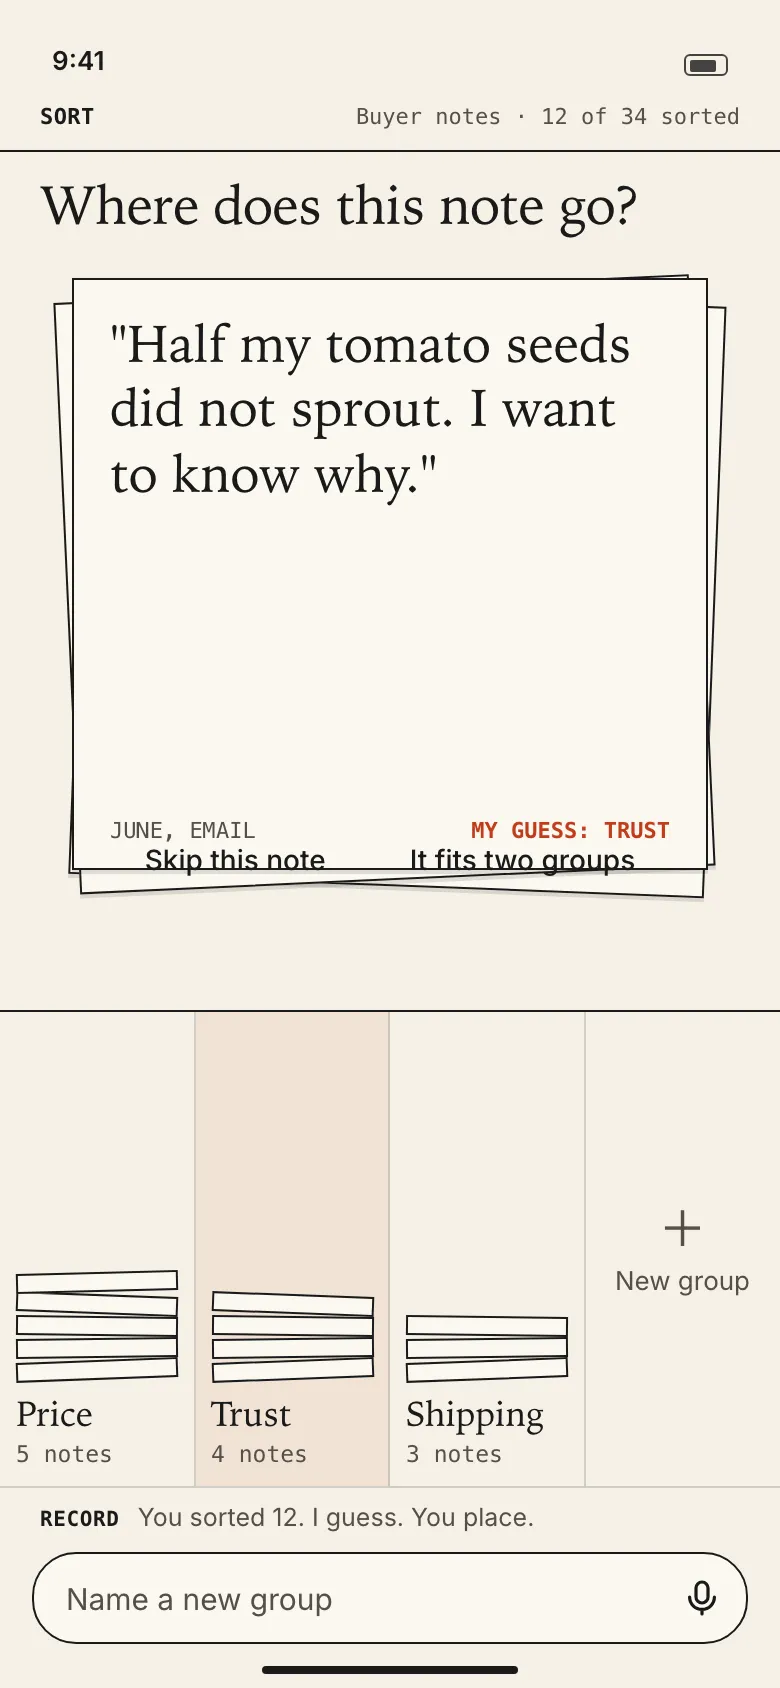
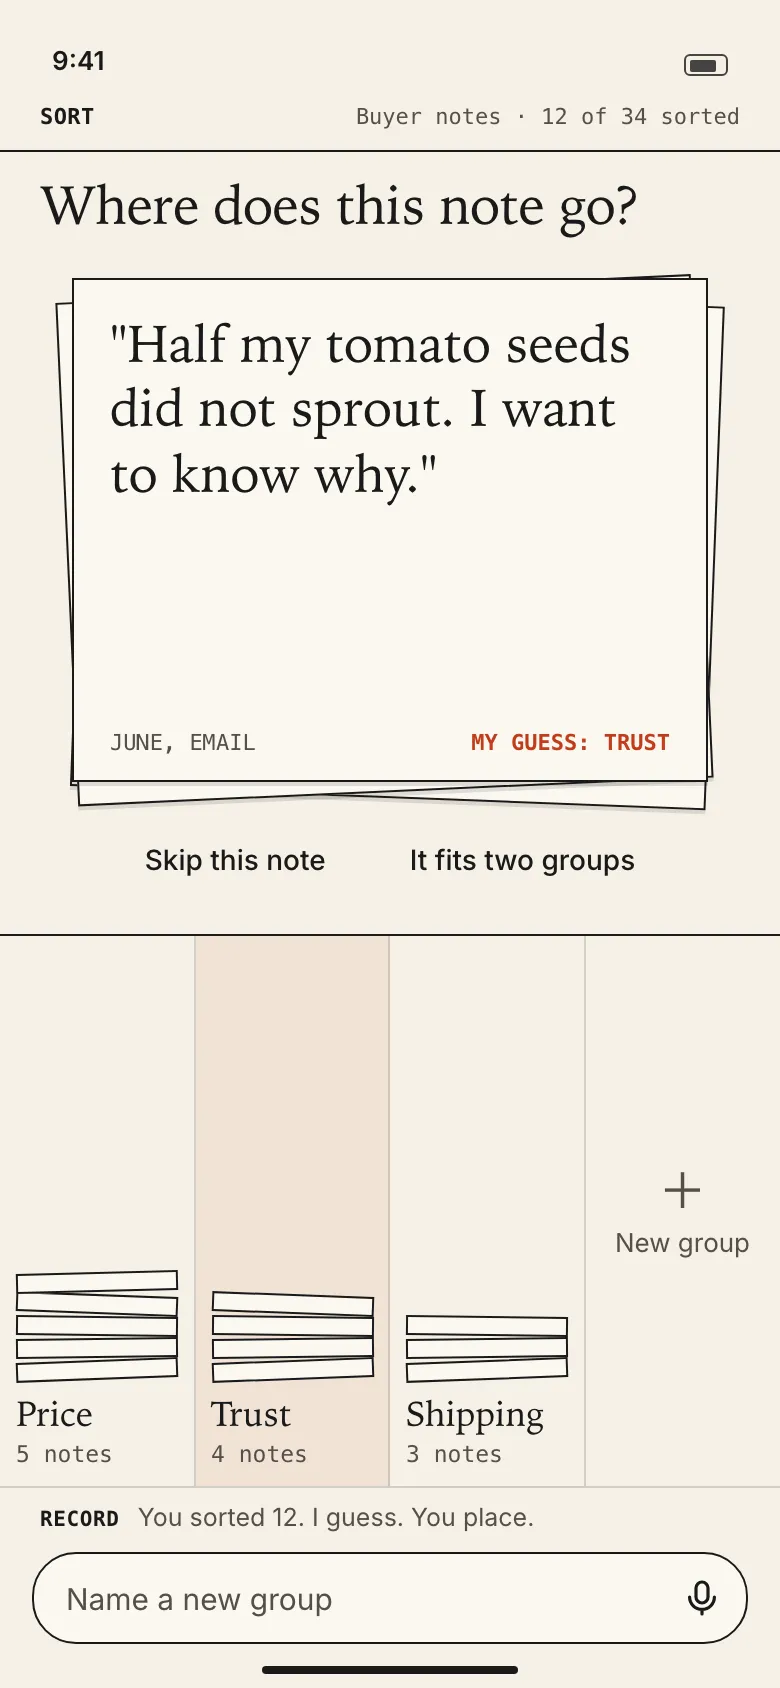
Sort mockup: fill the empty space without covering the buttons

diff --git a/static/mockups/sort.html b/static/mockups/sort.html
@@ -29,14 +29,14 @@ h1{font:400 27px/1.14 var(--serif);letter-spacing:-.01em}
 
 .ask{padding:12px 20px 0}
 .table{flex:1;min-height:0;position:relative;margin:6px 0 0}
-.slip{position:absolute;left:36px;right:36px;top:14px;height:296px;background:var(--page);border:1px solid var(--ink);padding:16px 18px;box-shadow:0 2px 0 rgba(26,26,26,.12);transition:transform .38s cubic-bezier(.4,.1,.4,1),opacity .38s}
+.slip{position:absolute;left:36px;right:36px;top:14px;height:252px;background:var(--page);border:1px solid var(--ink);padding:16px 18px;box-shadow:0 2px 0 rgba(26,26,26,.12);transition:transform .38s cubic-bezier(.4,.1,.4,1),opacity .38s}
 .slip.b1{transform:rotate(-2.6deg) translate(-3px,5px)}.slip.b2{transform:rotate(2.2deg) translate(4px,8px)}
 .slip p{font:400 26px/1.24 var(--serif)}
 .slip footer{position:absolute;left:18px;right:18px;bottom:12px;display:flex;justify-content:space-between;font:500 11px var(--mono);color:var(--ink2)}
 .slip footer b{color:var(--red);font-weight:600}
 .skip{position:absolute;left:0;right:0;top:282px;display:flex;justify-content:center;gap:22px}
 .skip button{height:44px;padding:0 10px;font:500 14px var(--sans)}
-.bins{flex:none;display:grid;grid-template-columns:repeat(4,1fr);border-top:1px solid var(--ink);height:238px}
+.bins{flex:none;display:grid;grid-template-columns:repeat(4,1fr);border-top:1px solid var(--ink);height:276px}
 .bin{display:flex;flex-direction:column;justify-content:flex-end;align-items:stretch;padding:0 8px 9px;border-right:1px solid var(--rule);position:relative;text-align:left}
 .bin:last-child{border-right:0}
 .bin.g{background:rgba(193,61,28,.08)}
